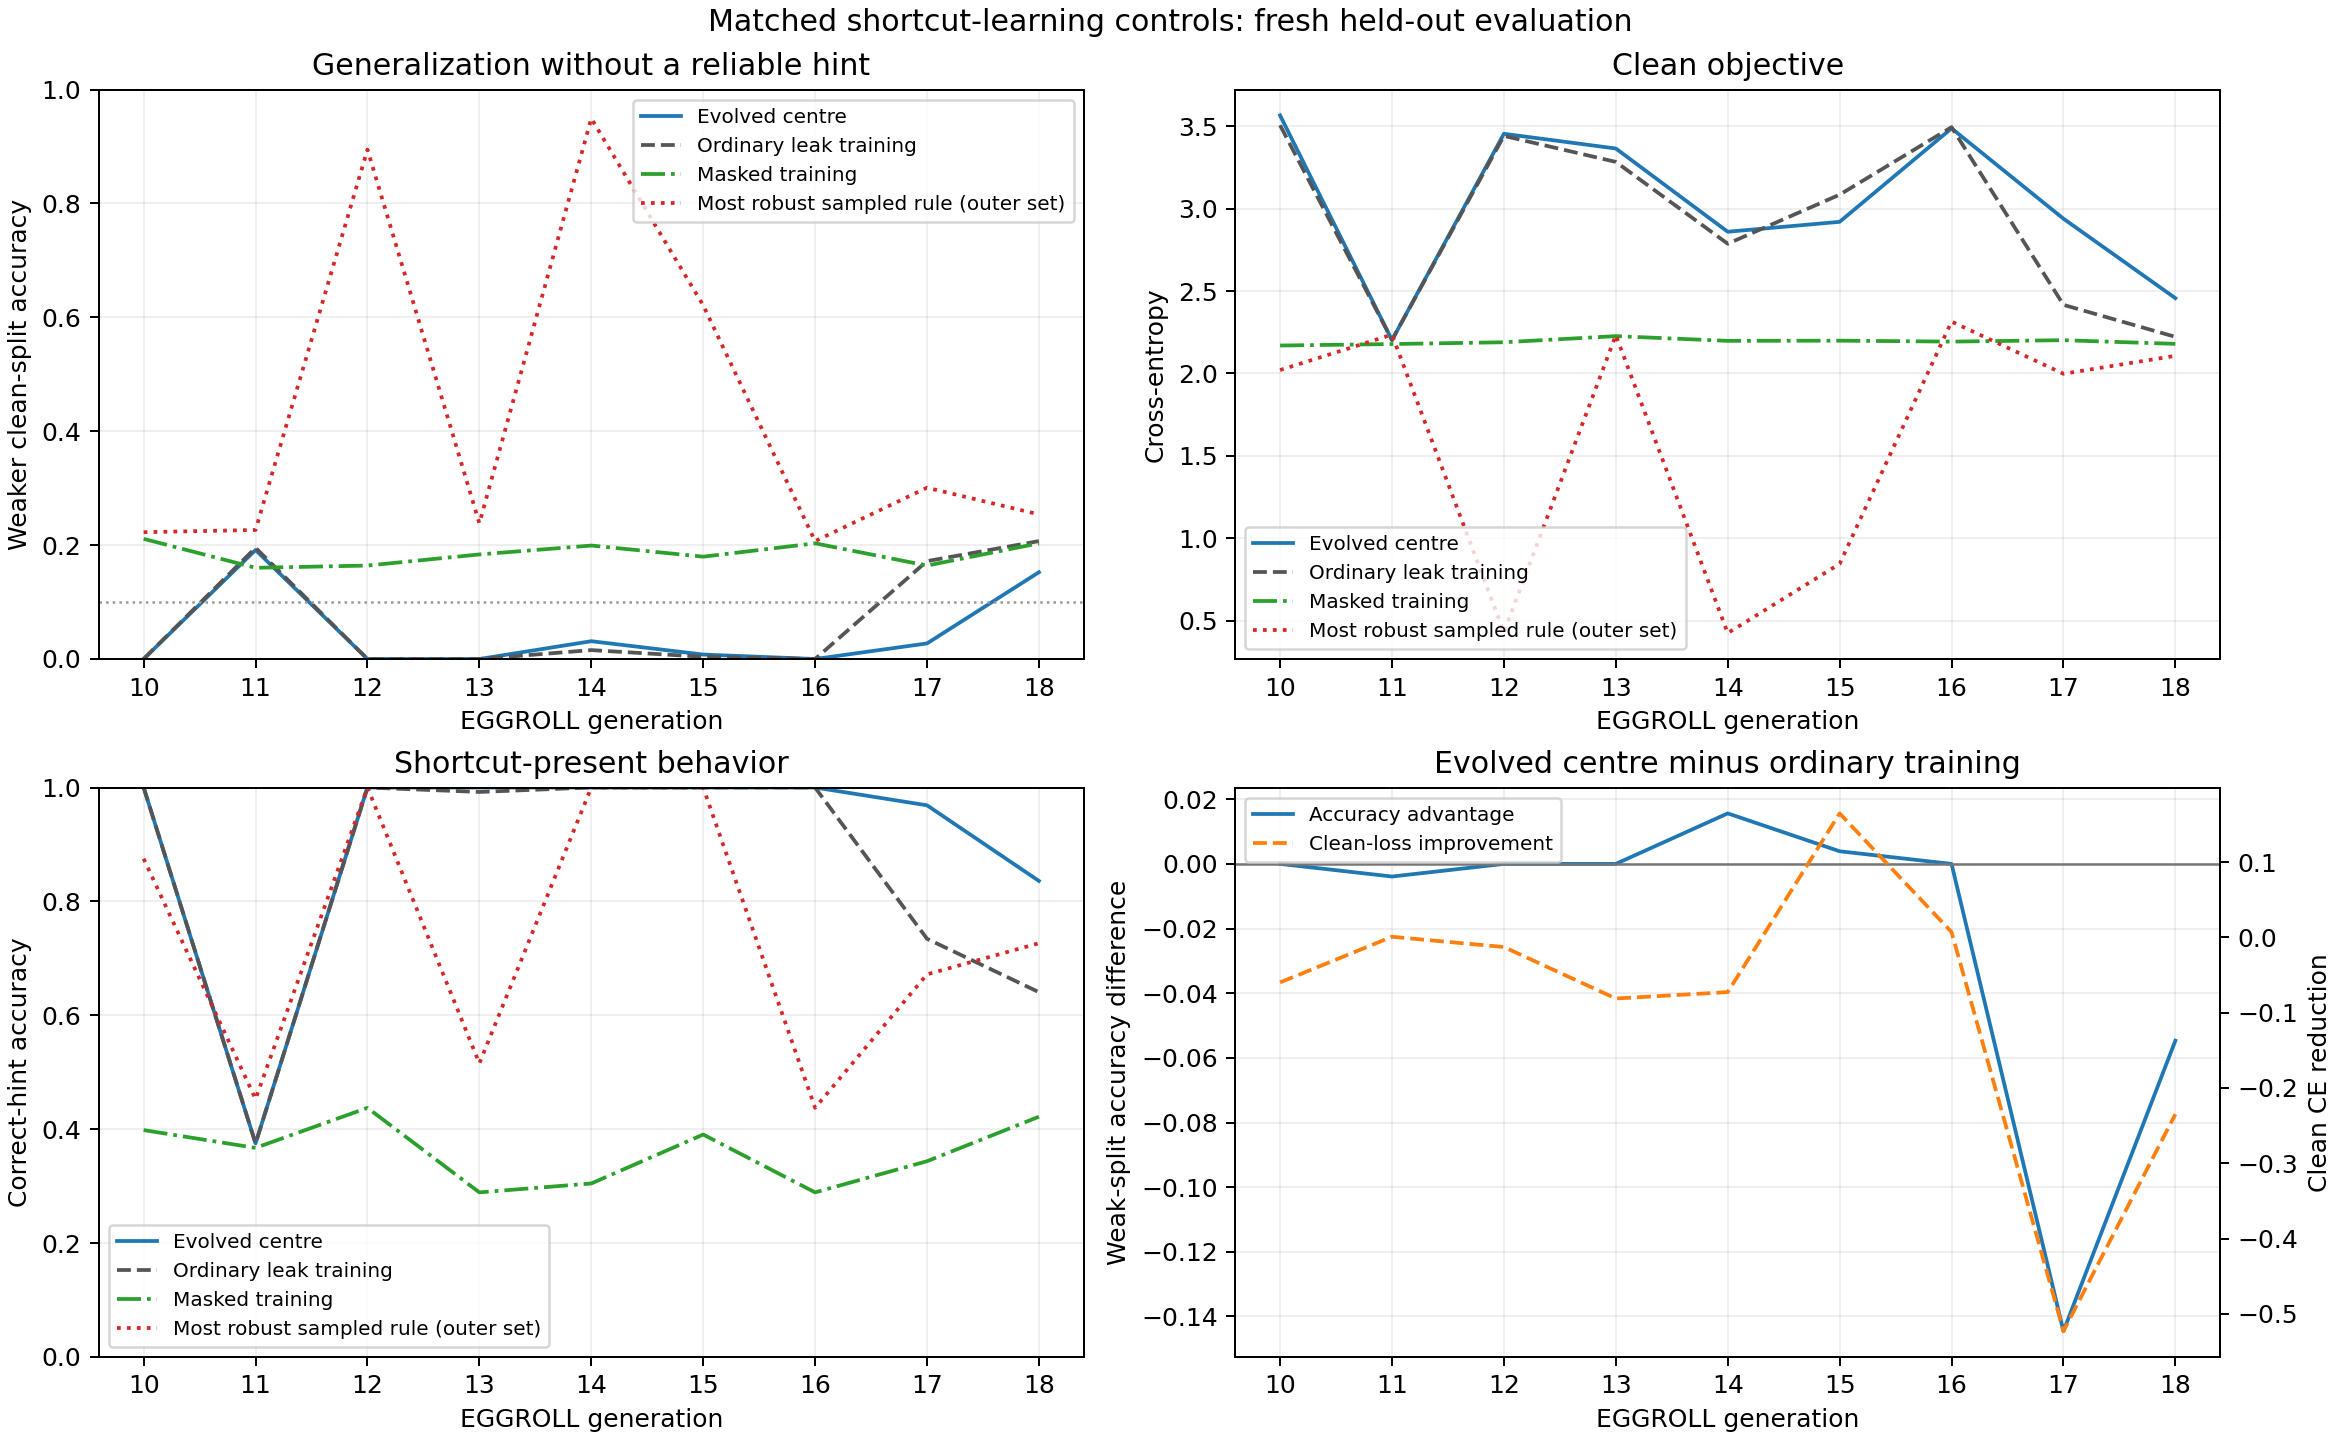
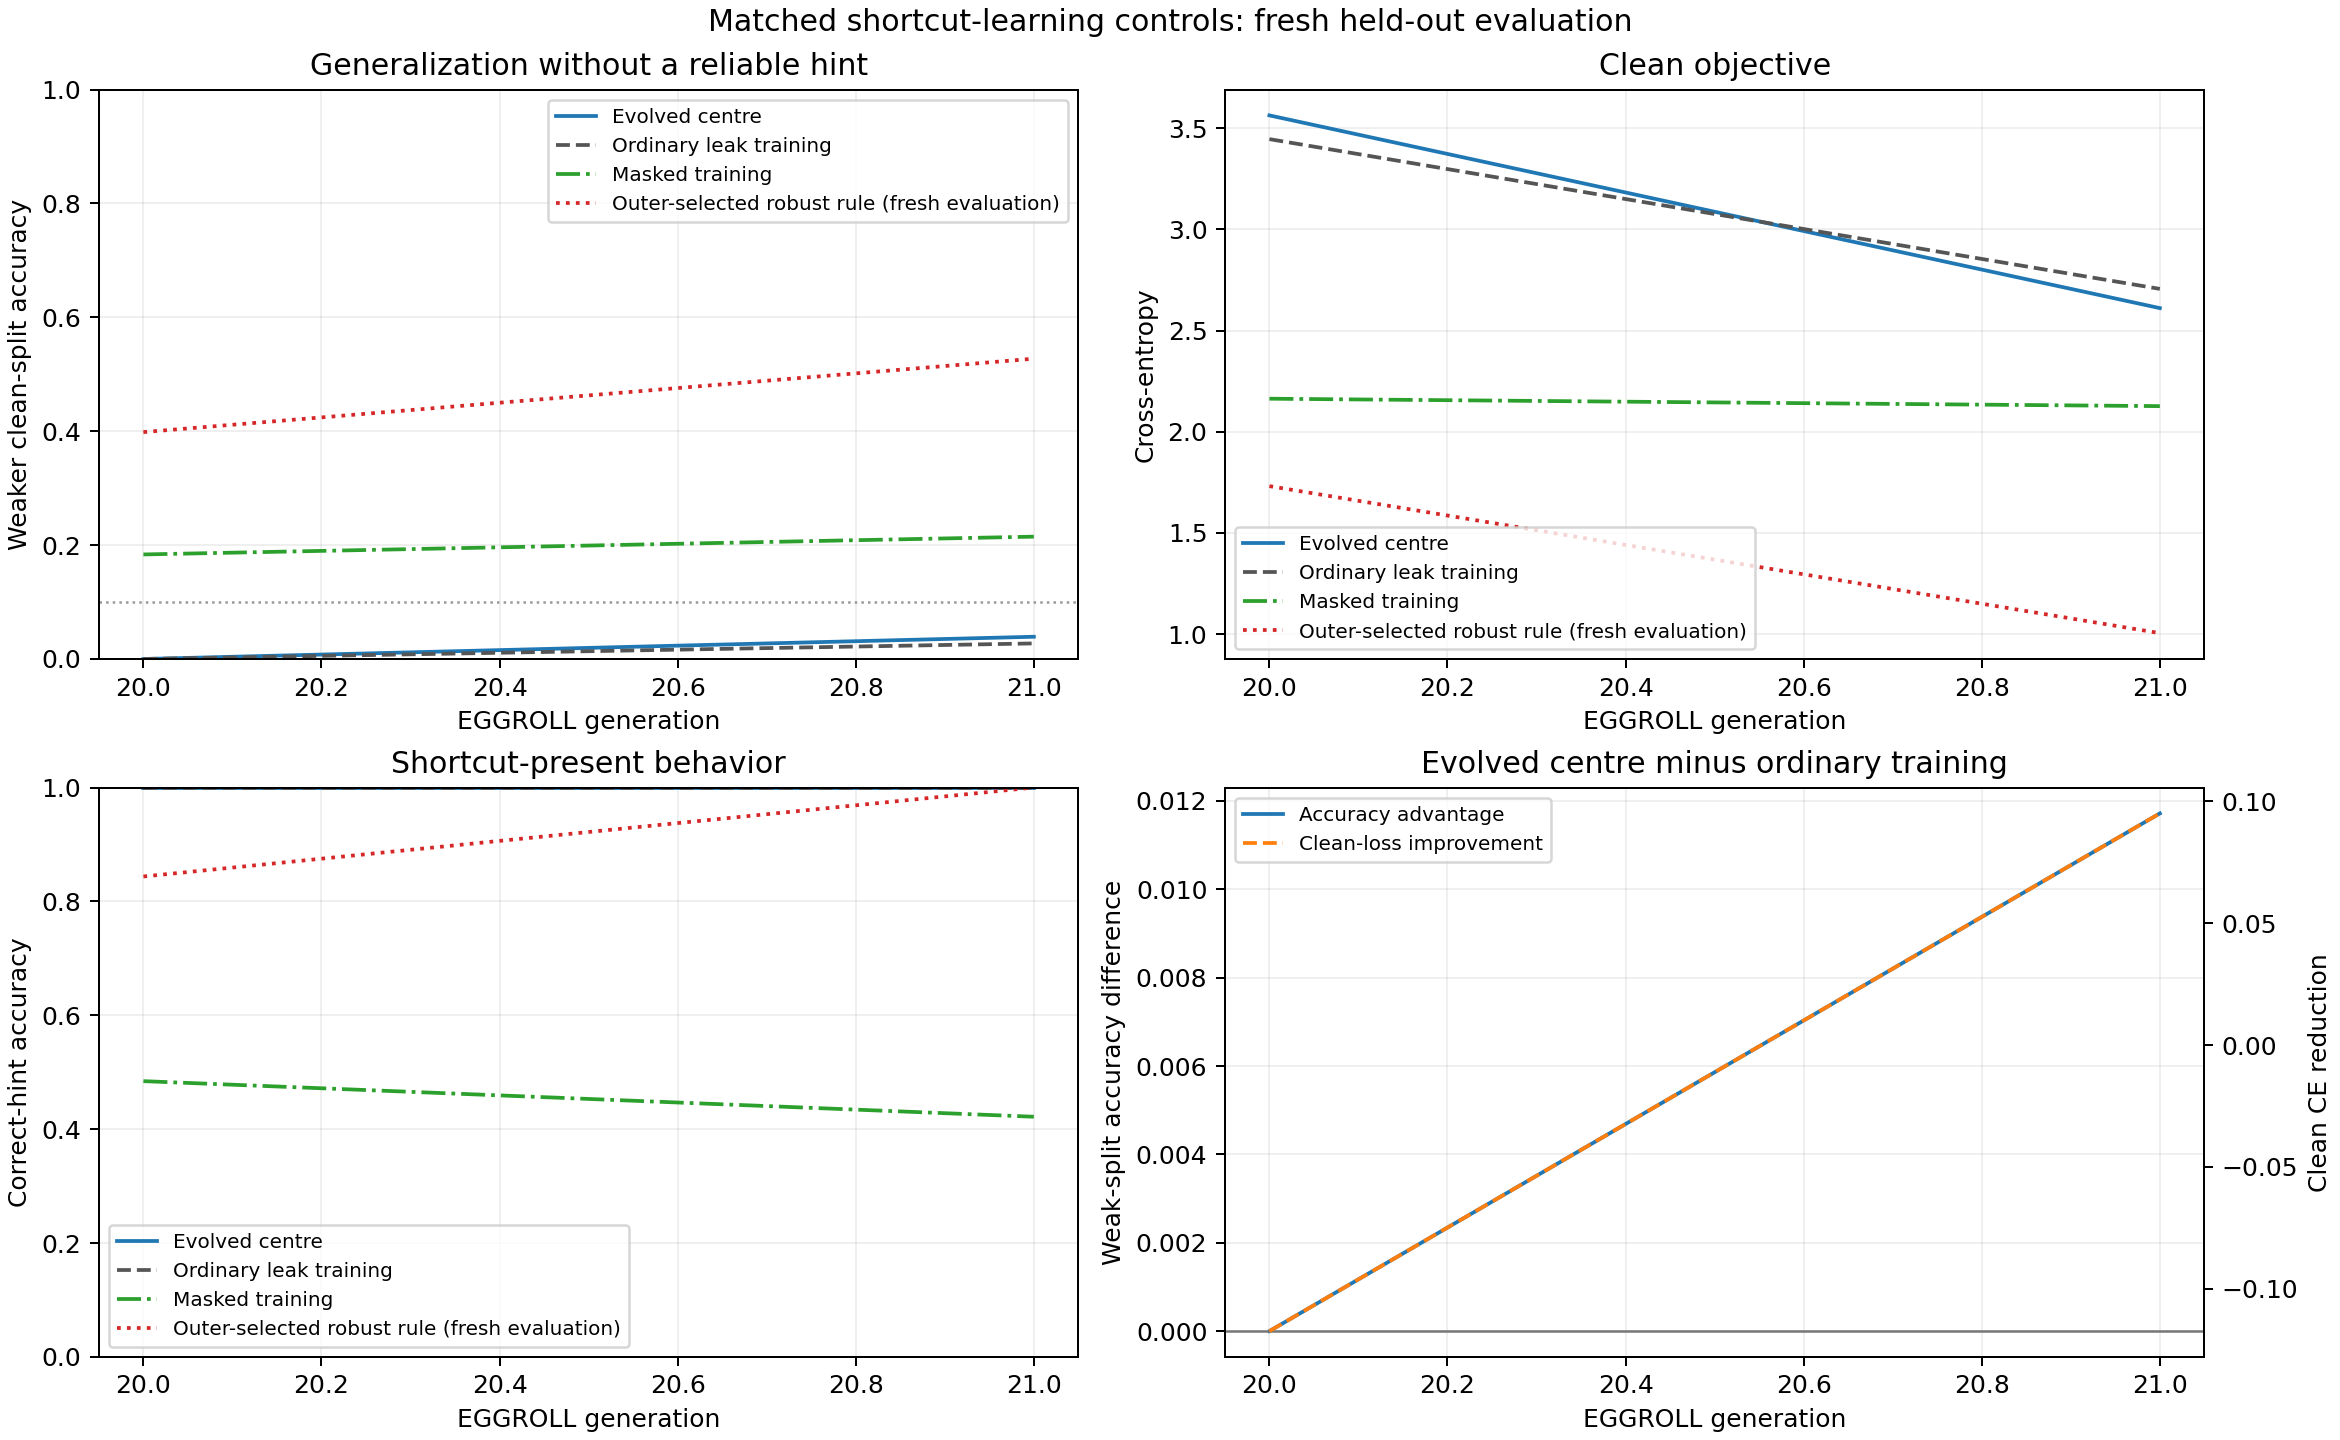
Report candidate heldout generalization

diff --git a/src/list_sorting_transformer/shortcut_credit_compare_plot.py b/src/list_sorting_transformer/shortcut_credit_compare_plot.py
@@ -226,6 +226,10 @@ def plot_matched_controls(
         for row in rows
     )
     heldout_prefix = "heldout_" if use_heldout else ""
+    candidate_heldout = any(
+        "robust/heldout_min_mode_accuracy" in row
+        for row in rows
+    )
     trajectories = (
         (
             "Evolved centre",
@@ -247,9 +251,13 @@ def plot_matched_controls(
         ),
         (
             (
-                "Most robust sampled rule (outer set)"
-                if use_heldout
-                else "Most robust sampled rule"
+                "Outer-selected robust rule (fresh evaluation)"
+                if candidate_heldout
+                else (
+                    "Most robust sampled rule (outer set)"
+                    if use_heldout
+                    else "Most robust sampled rule"
+                )
             ),
             "robust",
             "#d62728",
@@ -258,10 +266,15 @@ def plot_matched_controls(
     )
 
     for label, prefix, color, linestyle in trajectories:
+        metric_prefix = (
+            "robust/heldout_"
+            if prefix == "robust" and candidate_heldout
+            else f"{prefix}/"
+        )
         _plot(
             accuracy_axis,
             rows,
-            f"{prefix}/min_mode_accuracy",
+            f"{metric_prefix}min_mode_accuracy",
             label=label,
             color=color,
             linestyle=linestyle,
@@ -269,7 +282,7 @@ def plot_matched_controls(
         _plot(
             loss_axis,
             rows,
-            f"{prefix}/clean_loss",
+            f"{metric_prefix}clean_loss",
             label=label,
             color=color,
             linestyle=linestyle,
@@ -277,7 +290,7 @@ def plot_matched_controls(
         _plot(
             correct_axis,
             rows,
-            f"{prefix}/correct_leak_accuracy",
+            f"{metric_prefix}correct_leak_accuracy",
             label=label,
             color=color,
             linestyle=linestyle,

diff --git a/tests/test_shortcut_credit_compare_plot.py b/tests/test_shortcut_credit_compare_plot.py
@@ -112,6 +112,9 @@ def test_plot_matched_controls_prefers_heldout_metrics(tmp_path: Path) -> None:
             "robust/min_mode_accuracy": 0.8,
             "robust/clean_loss": 0.7,
             "robust/correct_leak_accuracy": 1.0,
+            "robust/heldout_min_mode_accuracy": 0.7,
+            "robust/heldout_clean_loss": 0.8,
+            "robust/heldout_correct_leak_accuracy": 0.9,
             "heldout_comparison/center_minus_ordinary_min_accuracy": 0.1,
             "heldout_comparison/center_clean_loss_improvement_over_ordinary": 0.3,
         }

diff --git a/experiments/learned_backward_shortcuts/PROGRESS.md b/experiments/learned_backward_shortcuts/PROGRESS.md
@@ -1449,7 +1449,7 @@ generation therefore also samples fresh balanced masked, wrong-hint, and
 correct-hint evaluation examples. The learned centre, ordinary training, and
 masked training all use the exact same fresh examples.
 
-The active continuation is:
+The first held-out continuation ran through checkpoint 20:
 
 - Run:
   [`attention-router-random-list-h160-p64-s021-outer0007-heldout-resume10-seed7`](https://wandb.ai/wobrob101/list-sorting-learned-backward/runs/n1xq8tsr)
@@ -1457,6 +1457,15 @@ The active continuation is:
   `attention-router-random-list-h160-p64-s021-outer0007-baselines-seed7/checkpoint_000010.pt`.
 - All search and training settings are unchanged; only the extra held-out
   measurements were added.
+
+The active candidate-held-out continuation is:
+
+- Run:
+  [`attention-router-random-list-h160-p64-s021-outer0007-candidate-heldout-resume20-seed7`](https://wandb.ai/wobrob101/list-sorting-learned-backward/runs/m3tyle5h)
+- Resume source:
+  `attention-router-random-list-h160-p64-s021-outer0007-heldout-resume10-seed7/checkpoint_000020.pt`.
+- It additionally evaluates all 64 candidates on the fresh set, without using
+  those results in the EGGROLL update.
 
 The tracked matched-control plot is regenerated from the live JSONL metrics:
 
@@ -1466,7 +1475,7 @@ The tracked matched-control plot is regenerated from the live JSONL metrics:
 PYTHONPATH=src python -m \
   list_sorting_transformer.shortcut_credit_compare_plot \
   --matched-controls \
-  artifacts/learned_backward_shortcuts/attention-router-random-list-h160-p64-s021-outer0007-heldout-resume10-seed7/metrics.jsonl \
+  artifacts/learned_backward_shortcuts/attention-router-random-list-h160-p64-s021-outer0007-candidate-heldout-resume20-seed7/metrics.jsonl \
   --output \
   experiments/learned_backward_shortcuts/results/random_list_matched_controls.png
 ```
@@ -1561,12 +1570,29 @@ therefore negative for centre learning and still shows global rather than
 moving-hint-specific suppression. This remains an interim result before the
 longer horizon requested for learned credit assignment.
 
-The next checkpoint continuation will also evaluate every population candidate
-on the fresh held-out set. This is necessary because the currently reported
-"best" and "most robust" candidates are selected on the reused outer fitness
-set. The added metrics retain those outer-set selection indices, then report
+From checkpoint 20 onward, every population candidate is also evaluated on the
+fresh held-out set. The metrics retain outer-set selection indices, then report
 their fresh masked, wrong-hint, correct-hint, and clean-CE results. They also
 measure the population correlation between outer fitness and fresh negative
-worst-mode CE. The active generation-10 process cannot load new code, so this
-instrumentation will begin from its durable checkpoint 20 without resetting
-the evolved centre.
+worst-mode CE.
+
+Generation 20 was intentionally rerun from checkpoint 20. Every pre-existing
+outer, centre, control, routing, and update metric reproduces exactly, which
+validates the continuation. The new candidate evidence is:
+
+| Outer-selected candidate | Reused outer set | Fresh held-out set |
+| --- | ---: | ---: |
+| Masked accuracy | 54.69% | 47.27% |
+| Wrong-hint accuracy | 42.19% | 39.84% |
+| Weaker-split accuracy | 42.19% | 39.84% |
+| Correct-hint accuracy | 80.47% | 84.38% |
+| Clean CE | 1.677 | 1.731 |
+
+Across all 64 candidates, outer fitness correlates `0.998` with fresh
+negative worst-mode CE. Candidate quality is therefore genuine and not an
+artifact of repeatedly using the same outer examples. The candidate's
+all-hint-source relative gate is `0.877`, providing the first strong
+candidate-level link between semantic hint suppression and fresh function
+learning. The unresolved problem is now narrower: EGGROLL reliably samples
+useful, generalizing rules, but its accumulated centre still fails to capture
+them.
